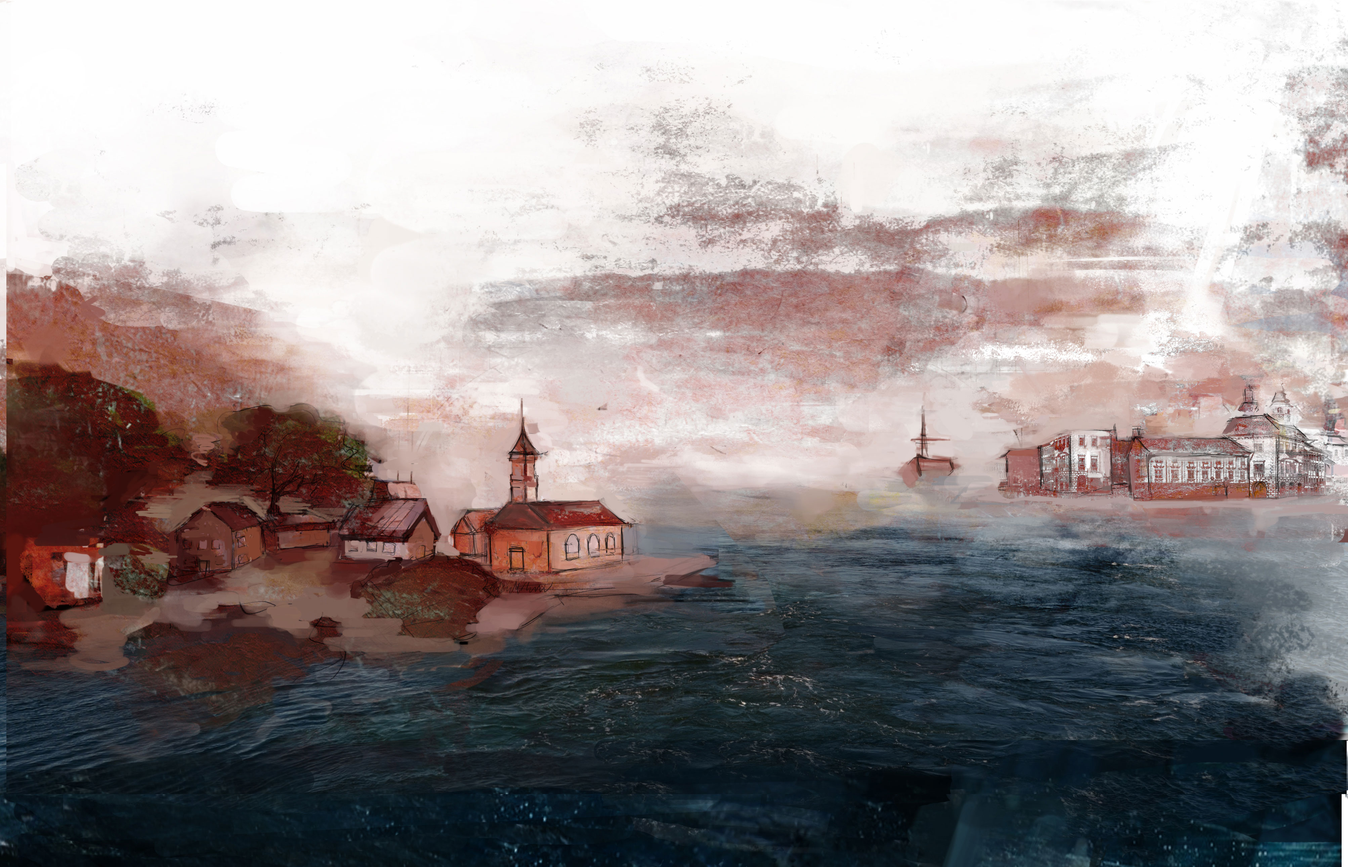
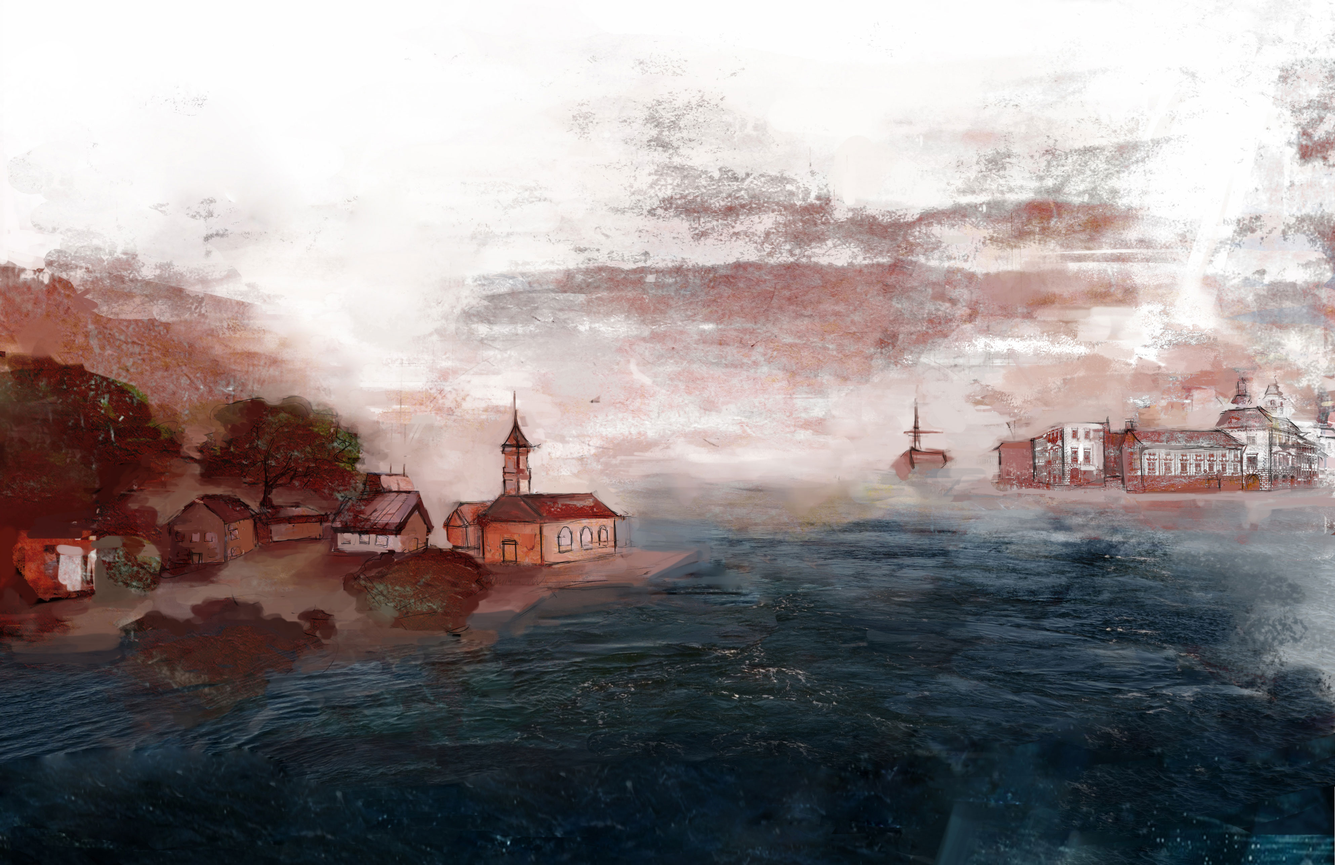
background image rework

diff --git a/app/index.html b/app/index.html
@@ -34,8 +34,7 @@
     <div class="container">
       <div>
         <div class="row">
-          <div id="synopsis" class="col-md-6 col-md-offset-3" ><p>Bacon ipsum dolor amet swine venison flank, landjaeger meatball sausage pancetta alcatra brisket strip steak salami porchetta turkey. Kevin beef flank pig, ground round shankle pancetta t-bone pork loin turducken tail ham. Corned beef frankfurter pig, flank meatloaf ham pork belly rump tongue. Turkey frankfurter t-bone, short ribs capicola leberkas pork belly hamburger cow pork chop flank ribeye cupim.</p>
-            <p> Meatball bresaola turkey ground round beef flank bacon kevin tri-tip tongue. Kevin short loin leberkas meatball, tri-tip cow short ribs cupim turducken corned beef hamburger. Strip steak bacon ribeye kielbasa frankfurter jowl spare ribs. Ground round andouille leberkas, chicken pig pork loin tail brisket pork cow. Rump shank short ribs brisket tenderloin t-bone short loin fatback meatball hamburger kielbasa picanha. Frankfurter alcatra short loin, rump tail shoulder jerky beef swine ham hock. Bacon andouille swine, alcatra ball tip ribeye shank jowl.</p>
+          <div id="synopsis" class="col-md-6 col-md-offset-3 text-justify" ><p>Tervetuloa kevään 2016 Teekkarispeksin mukana vuoteen 1860 Britannian rannikolle! Eristyneellä saarella asuvassa kyläyhteisössä pelätään Jumalaa, haaveillaan Lontoosta ja rakennetaan rautatiesiltaa mantereelle. Pienen kylän rauha alkaa rakoilla, kun mystisiin oppeihin vihkiytynyt madame Blavatsky ilmestyy saarelle ja nostattaa Atlantis-hurmoksen. Kenen usko on oikea? Kuka jää ja kuka lähtee? Löytyykö myyttinen Atlantis?</p>
           </div>
         </div>
       </div>
@@ -100,12 +99,12 @@
       </div>
     </div>
   </div>
-  <div id="section5" class="section">
+
+  <div id="section4" class="section"></div>
+
+  <div id="text4" class="text">
     <div class="container">
-
-
       <div class="row">          
-
         <div id="tekijat" class="col-md-6 col-md-offset-3">
           <h3>Tekijät</h3>
           <ul>
@@ -326,7 +325,7 @@
     </div>
   </div>
 
-  <div id="section6" class="section">
+  <div id="section5" class="section">
     <div class="container">
       <div class="row">
         <div id="sponsorit" class="col-md-6 col-md-offset-3">
@@ -335,6 +334,9 @@
       </div>
     </div>
   </div>
+
+
+
 </div>
 
 <!-- <div class="margin-box"></div> --><!-- 100vh height margin -->

diff --git a/app/styles/main.scss b/app/styles/main.scss
@@ -75,8 +75,8 @@ a, a:hover, a:visited, a:active{
 }
 
 .container{
-  padding-top: 50px;
-  padding-bottom: 50px;
+  padding-top: 100px;
+  padding-bottom: 100px;
 }
 
 #section1{
@@ -89,7 +89,6 @@ a, a:hover, a:visited, a:active{
 }
 
 #section2{
-  height:50vh;
   background-image: url('../images/bg2.jpg');
   background-color: orange;
   // background-attachment: fixed;
@@ -98,21 +97,33 @@ a, a:hover, a:visited, a:active{
 
 #section3{
   background-image: url('../images/bg3.jpg');
-  height: 50vh;
+}
+
+#section4{
+  background-image: url('../images/bg4.jpg');  
+}
+
+#section5{
+  background-image: url('../images/bg5.jpg');  
+  height: 100vh;  
+}
+
+.section{
+  height: 100vh;
+  background-position: center top;
+  background-size: cover;
+  background-repeat: no-repeat;
 }
 
 .text {
-  background-image: url('../images/paper_bg.jpg');
-  background-attachment: fixed;
+  background-image: url('../images/seamlesspaper.jpg');
+  // background-attachment: fixed;
   background-position: center top;
   background-size: cover;
   background-repeat: no-repeat;
   color: black;
   z-index: 10;
-
-  -webkit-box-shadow: 0px 0px 47px 30px rgba(0,0,0,0.75);
-  -moz-box-shadow: 0px 0px 47px 30px rgba(0,0,0,0.75);
-  box-shadow: 0px 0px 47px 30px rgba(0,0,0,0.75);
+  box-shadow: inset 0px 0px 35px 0px rgba(0,0,0,0.75);
 }
 
 /* Logo */
@@ -129,7 +140,7 @@ a, a:hover, a:visited, a:active{
 h3 {
   text-align: center;
   margin-bottom: 40px;
-  // margin-top: 100px;
+  margin-top: 40px;
 }
 
 #tekijat ul{
@@ -137,6 +148,13 @@ h3 {
     -webkit-column-count: 3; /* Chrome, Safari, Opera */
     -moz-column-count: 3; /* Firefox */
     column-count: 3;
+
+  @media (max-width: 600px) { 
+    -webkit-column-count: 2; /* Chrome, Safari, Opera */
+    -moz-column-count: 2; /* Firefox */
+    column-count: 2;    
+  }
+
 
   li b{
     padding-top: 10px;
